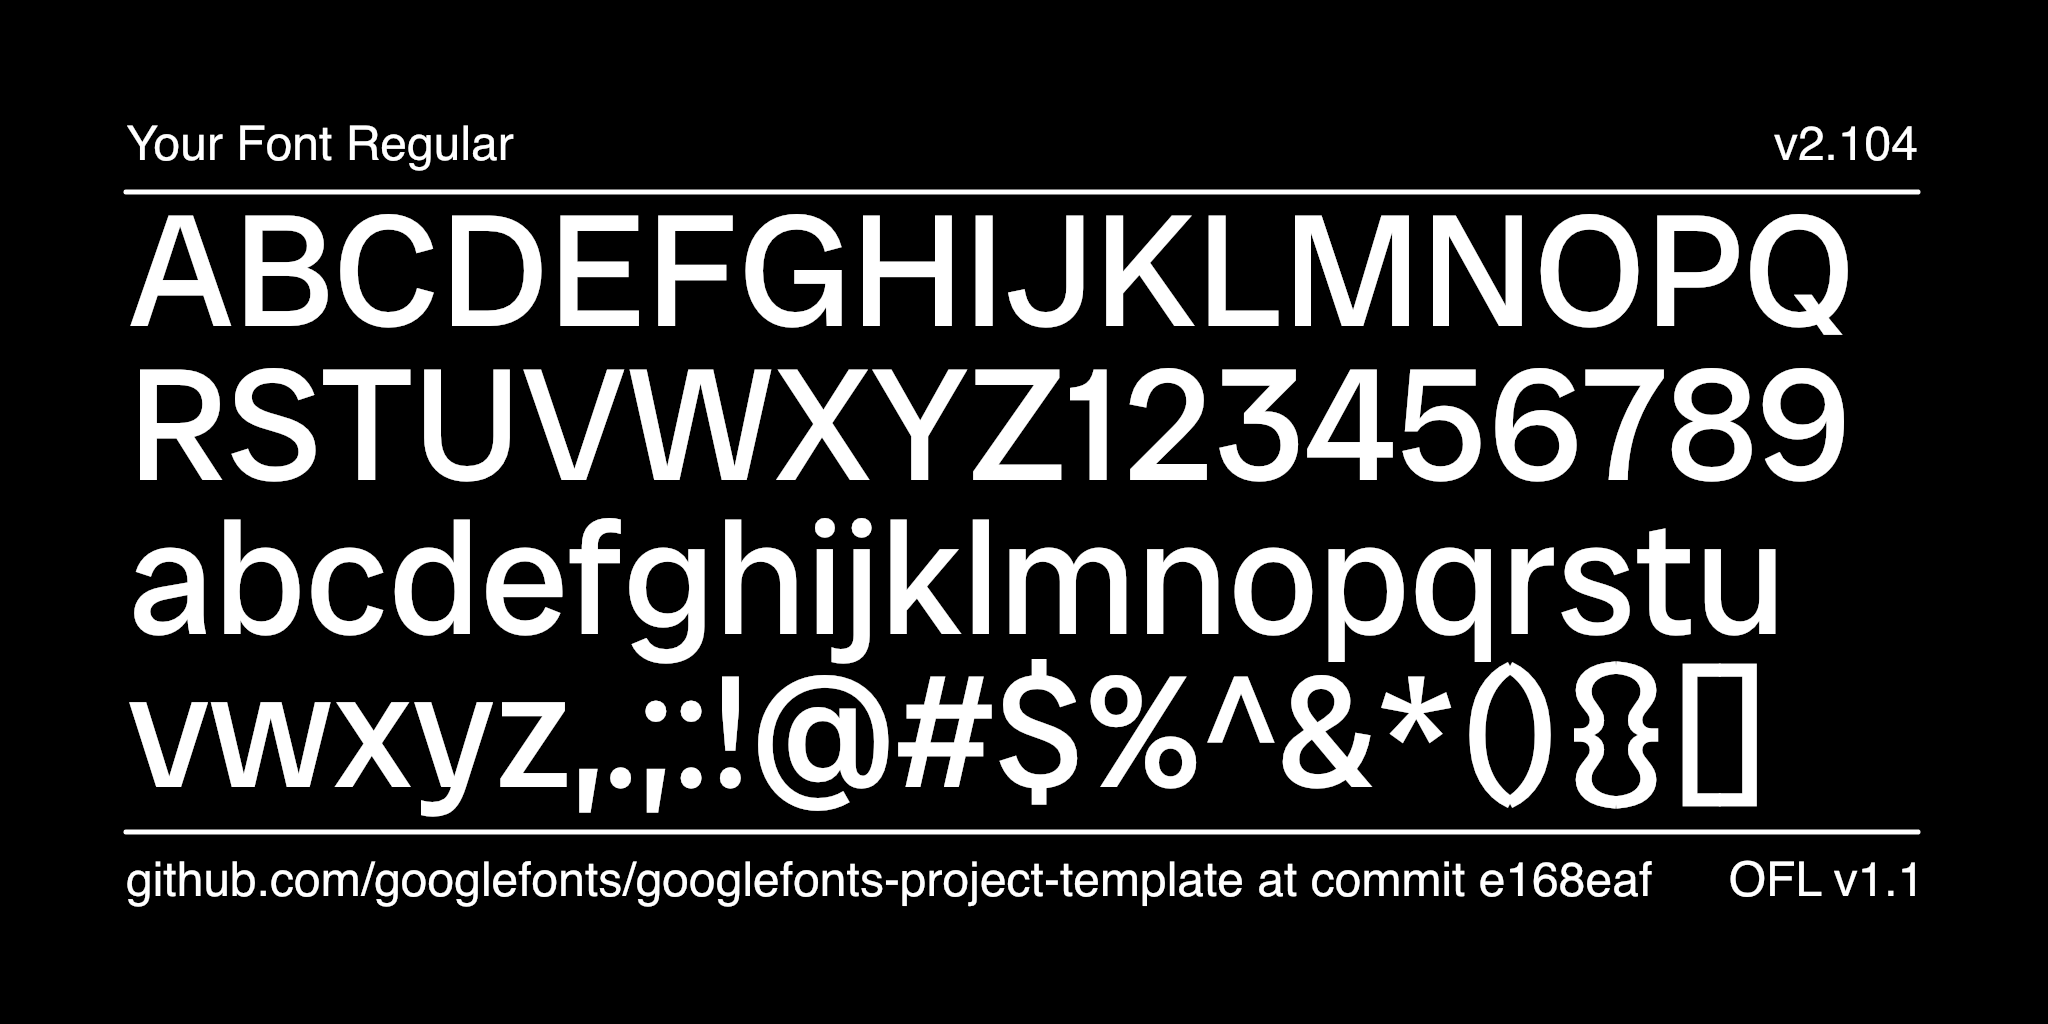
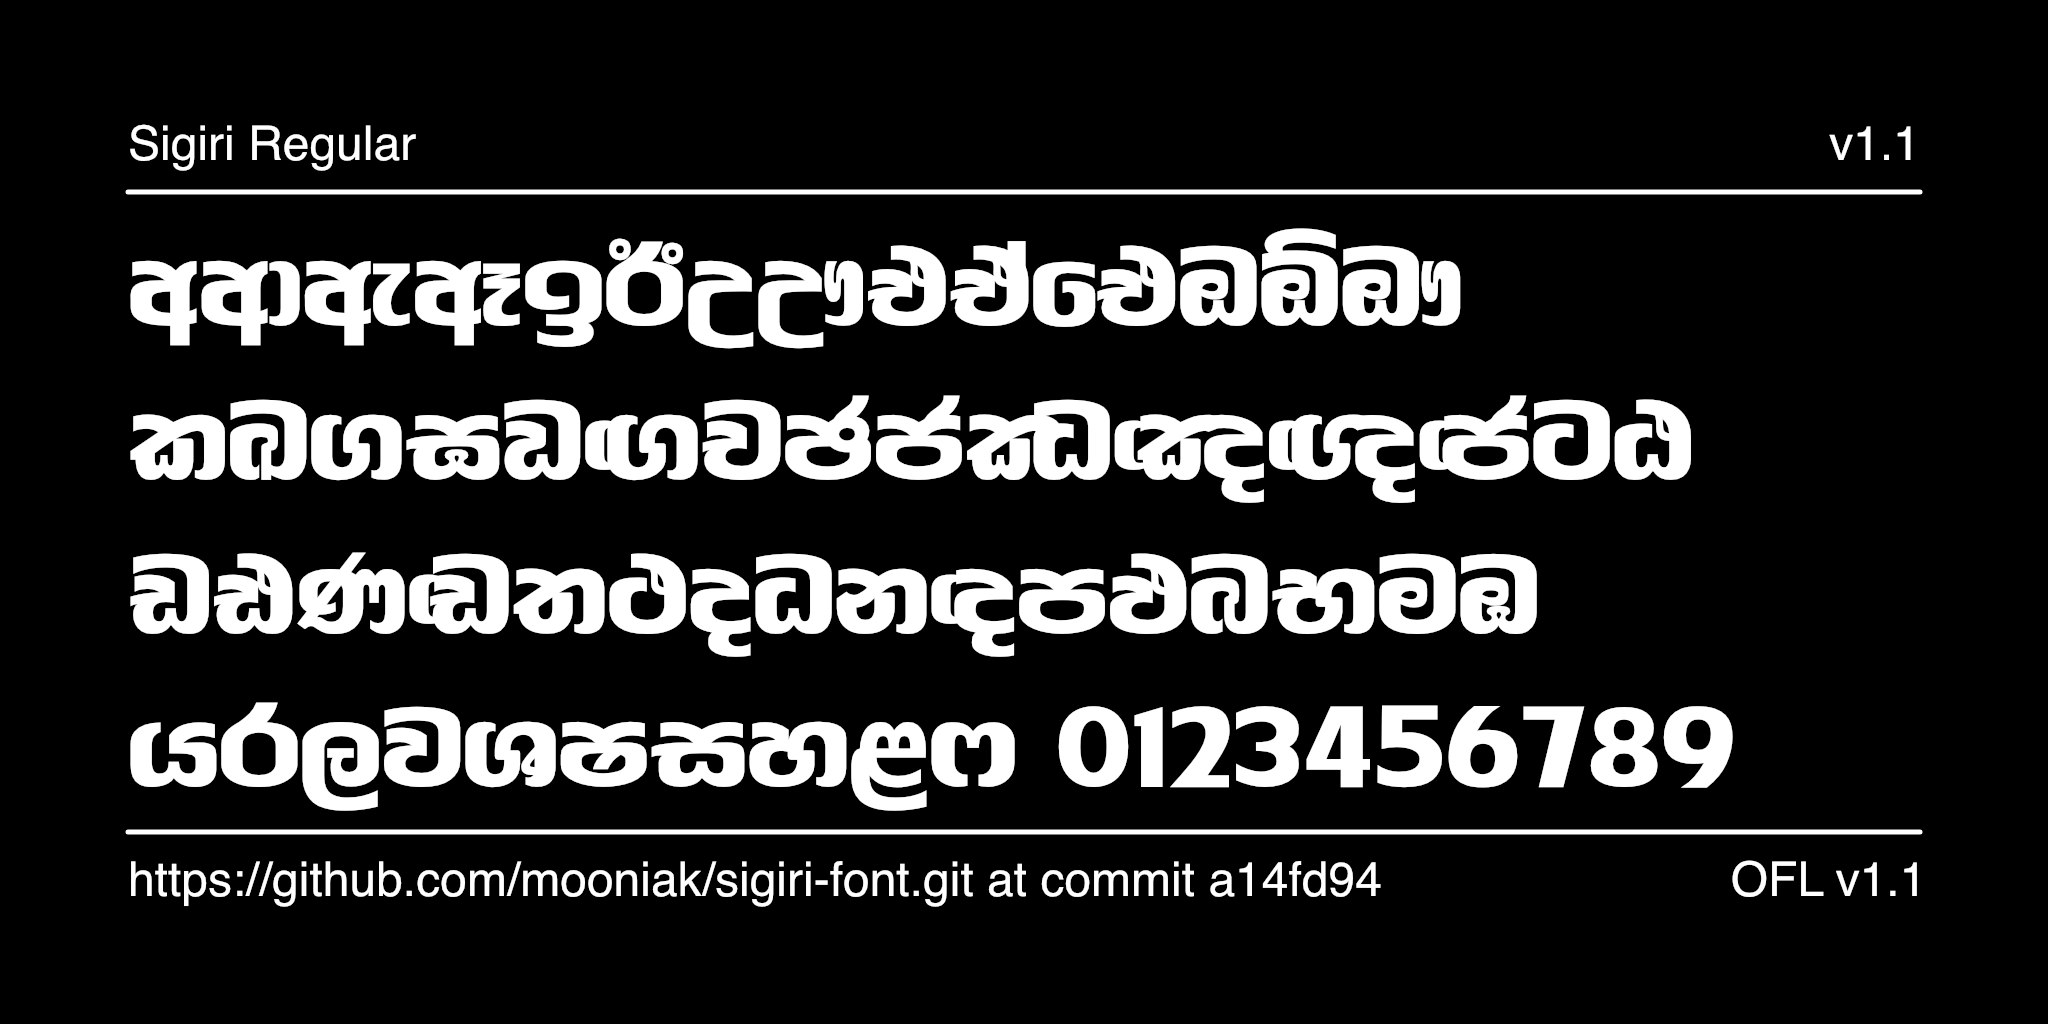
README: specimen images, description and badges

diff --git a/documentation/image2.py b/documentation/image2.py
@@ -13,19 +13,20 @@ from fontTools.misc.fixedTools import floatToFixedToStr
 import subprocess
 import sys
 import argparse
+import glob
 
 # Constants, these are the main "settings" for the image
 WIDTH, HEIGHT, MARGIN, FRAMES = 2048, 1024, 128, 1
-FONT_PATH = "fonts/variable/MyFont[wght].ttf"
+FONT_PATH = (sorted(glob.glob("fonts/ttf/*.ttf")) or sorted(glob.glob("fonts/variable/*.ttf")))[0]
 FONT_LICENSE = "OFL v1.1"
 AUXILIARY_FONT = "Helvetica"
 AUXILIARY_FONT_SIZE = 48
 
-LINE_ONE = "ABCDEFGHIJKLMNOPQ"
-LINE_TWO = "RSTUVWXYZ123456789"
-LINE_THREE = "abcdefghijklmnopqrstu"
-LINE_FOUR = "vwxyz,.;:!@#$%^&*(){}[]"
-BIG_TEXT_FONT_SIZE = 160
+LINE_ONE = "අආඇඈඉඊඋඌඑඒඓඔඕඖ"
+LINE_TWO = "කඛගඝඞඟචඡජඣඤඥඦටඨ"
+LINE_THREE = "ඩඪණඬතථදධනඳපඵබභමඹ"
+LINE_FOUR = "යරලවශෂසහළෆ 0123456789"
+BIG_TEXT_FONT_SIZE = 130
 BIG_TEXT_SIDE_MARGIN = MARGIN * 1
 BIG_TEXT_BOTTOM_MARGIN = MARGIN * 5.45
 
@@ -126,7 +127,6 @@ def draw_auxiliary_text():
     URL_AND_HASH = MY_URL + "at commit " + MY_HASH
     URL_AND_HASH = URL_AND_HASH.replace("\n", " ")
     # Draw Text
-    #text("Your Font Regular", POS_TOP_LEFT, align="left")
     text(FONT_NAME, POS_TOP_LEFT, align="left")
     text(FONT_VERSION, POS_TOP_RIGHT, align="right")
     text(URL_AND_HASH, POS_BOTTOM_LEFT, align="left")

diff --git a/documentation/image1.py b/documentation/image1.py
@@ -13,16 +13,17 @@ from fontTools.misc.fixedTools import floatToFixedToStr
 import subprocess
 import sys
 import argparse
+import glob
 
 # Constants, these are the main "settings" for the image
 WIDTH, HEIGHT, MARGIN, FRAMES = 2048, 1024, 128, 1
-FONT_PATH = "fonts/variable/MyFont[wght].ttf"
+FONT_PATH = (sorted(glob.glob("fonts/ttf/*.ttf")) or sorted(glob.glob("fonts/variable/*.ttf")))[0]
 FONT_LICENSE = "OFL v1.1"
 AUXILIARY_FONT = "Helvetica"
 AUXILIARY_FONT_SIZE = 48
 
-BIG_TEXT = "AaBb"
-BIG_TEXT_FONT_SIZE = 730
+BIG_TEXT = "සීගිරි"
+BIG_TEXT_FONT_SIZE = 600
 BIG_TEXT_SIDE_MARGIN = MARGIN * 1
 BIG_TEXT_BOTTOM_MARGIN = MARGIN * 2
 

diff --git a/README.md b/README.md
@@ -1,72 +1,27 @@
-## Setting up your font
+# Sigiri Font
 
-### New repositories
+[![Build][badge-build]][link-build]
+[![Fontspector QA][badge-qa]][link-qa]
+[![Release][badge-release]][link-release]
+[![License: OFL 1.1][badge-license]][link-license]
 
-1. Hit the green button above ("Use this template") to create your own repository.
+[badge-build]: https://github.com/mooniak/sigiri-font/actions/workflows/build.yaml/badge.svg?branch=dev
+[badge-qa]: https://img.shields.io/badge/dynamic/json?url=https%3A%2F%2Fsrc.mooniak.com%2Fsigiri-font%2Fbuild.json&query=%24.qa.pass_rate&suffix=%25&label=fontspector%20QA%20(dev%20build)&color=informational
+[badge-release]: https://img.shields.io/github/v/release/mooniak/sigiri-font?label=release
+[badge-license]: https://img.shields.io/badge/license-OFL--1.1-green
+[link-build]: https://github.com/mooniak/sigiri-font/actions/workflows/build.yaml
+[link-qa]: https://src.mooniak.com/sigiri-font/reports/fontspector/fontspector-report.html
+[link-release]: https://github.com/mooniak/sigiri-font/releases
+[link-license]: OFL.txt
 
-2. Clone the repository, and replace the font sources in the `sources` directory with your own font sources. These sources may be either in Glyphs format or UFO/Designspace formats.\
-   \
-   Unlike many open source distributors, Google Fonts is **curated**. Fonts shipped to the platform have to match the [Google Fonts Specifications](https://github.com/googlefonts/gf-docs/tree/main/Spec). Please read them carefully.\
-   \
-   _(The template ships a tiny generic placeholder — "My Font", a 2-master Weight variable font with a handful of blank-slate glyphs (`.notdef`, space, H, I, l, O) as `sources/MyFont.designspace` + UFOs. It exists only so the build pipeline works out of the box; replace it with your own sources.)_
+Sigiri is a Sinhala typeface designed by Lalith Rathnayake, in a single Regular weight. It is maintained by [Mooniak](https://mooniak.com/) and distributed as a free font under the SIL Open Font License.
 
-3. Then reference the sources in the file `sources/config.yaml`, as well as making any other changes you would like to make based on the instructions in the [Google Fonts Builder documentation](https://github.com/googlefonts/gftools/blob/main/Lib/gftools/builder/__init__.py).
-
-4. Add yourself to the `AUTHORS.txt` and `CONTRIBUTORS.txt` files.
-
-5. Fill out `documentation/ARTICLE.en_us.html` with a description of your font.
-
-6. Rewrite this Readme file according to the recommendations in the [Google Fonts Guide](https://googlefonts.github.io/gf-guide/readmefile.html).
-
-7. Add and commit these files to git.
-
-8. **At the command line, run `make customize` to ensure that all the paths and URLs in your project are correct**. This will also push your changes to GitHub.
-
-9. **Set up your GitHub pages site**: go to your repository's Settings > Pages and ensure that the Build and deployment "Source" drop-down is set to "GitHub Actions". (Any preexisting Actions jobs can be re-run to publish now, or the deployment triggered also manually from the Actions tab. Subsequent commits will publish the proofs and QA results automatically.)
-
-10. If GitHub Actions has successfully built the family, you will find the font binaries in the Actions tab. The official GitHub Actions documentation provides further [information](https://docs.github.com/en/actions/managing-workflow-runs/downloading-workflow-artifacts).
-
-### Updating a repository
-
-1. To update your font repository to bring in the latest best-practices from the Google Fonts Project Template, run `make update-project-template` from the command line. This requires the `node` Javascript engine to be installed; if you don't have that already, [follow these instructions](https://nodejs.org/en/download/package-manager#macos) to install on your platform.
-
-2. To update the Python build chain which builds your fonts, run `make update` and `git add`/`git commit` the new `requirements.txt`.
-
-## More things to do
-
-- `CustomFilter_GF_Latin_All.plist` in `sources` is practical if you use GlyphsApp, you can remove it otherwise. Placed in the same directory as the your `.glyphs` file, it will allow Glyphs to display a filter list for all GF Latin glyphsets in app. To make sure your font supports the minimal set required by Google Fonts, look at the `GF_Latin_Core` filter list. Find other glyphsets and list formats for different software in [GF Glyphsets repository](https://github.com/googlefonts/glyphsets/tree/main/GF_glyphsets).
-
-- Once you are happy with your font, add promotional assets in the documentation directory. Make it different from the pic you use in this README. You can get inspired by existing @googlefonts posts as: https://x.com/googlefonts/status/1415562928657416192.
-
-- Google Fonts uses GitHub Releases to manage font families. If you feel your font project has hit a milestone, you must create a new release for it. In order to do this, go to the releases page and hit the "Draft a new release" button. You must provide a tag number and title which can only be a decimal number e.g. `0.100`, `1.000` etc. For the body text, mention what has changed since the last release. Once you are done, hit the "Publish release" button. Here is an example which fulfills the requirements, https://github.com/m4rc1e/test-ufr-family/releases/tag/2.019. For more info regarding GitHub release, please see the official GitHub Release [documentation](https://docs.github.com/en/repositories/releasing-projects-on-github/managing-releases-in-a-repository). **Please note that GitHub Actions must be able to build the fonts before you can make a release. Once you have made a release, the fonts and tests assets will be attached to the release automatically. This may take a while since the fonts and tests will be built from scratch so please be patient.**
-
----
-
-# My Font
-
-[![][Fontspector]](https://mooniak.github.io/mooniak-font-project-template.git/fontspector/fontspector-report.html)
-[![][OpenType]](https://mooniak.github.io/mooniak-font-project-template.git/fontspector/fontspector-report.html)
-[![][Universal]](https://mooniak.github.io/mooniak-font-project-template.git/fontspector/fontspector-report.html)
-[![][Google Fonts]](https://mooniak.github.io/mooniak-font-project-template.git/fontspector/fontspector-report.html)
-[![][Glyphset]](https://mooniak.github.io/mooniak-font-project-template.git/fontspector/fontspector-report.html)
-
-[Fontspector]: https://img.shields.io/endpoint?url=https%3A%2F%2Fmooniak.github.io%2Fmooniak-font-project-template.git%2Fbadges%2FFontspectorQA.json
-[OpenType]: https://img.shields.io/endpoint?url=https%3A%2F%2Fmooniak.github.io%2Fmooniak-font-project-template.git%2Fbadges%2FOpentypeSpecificationChecks.json
-[Universal]: https://img.shields.io/endpoint?url=https%3A%2F%2Fmooniak.github.io%2Fmooniak-font-project-template.git%2Fbadges%2FUniversalProfileChecks.json
-[Google Fonts]: https://img.shields.io/endpoint?url=https%3A%2F%2Fmooniak.github.io%2Fmooniak-font-project-template.git%2Fbadges%2FFontFileChecks.json
-[Outline Correctness]: https://img.shields.io/endpoint?url=https%3A%2F%2Fmooniak.github.io%2Fmooniak-font-project-template.git%2Fbadges%2FOutlineCorrectnessChecks.json
-[Glyphset]: https://img.shields.io/endpoint?url=https%3A%2F%2Fmooniak.github.io%2Fmooniak-font-project-template.git%2Fbadges%2FGlyphsetChecks.json
-
-Description of your font goes here. We recommend to start with a very short presentation line (the kind you would use on twitter to present your project for example), and then add as much details as necesary :-) Origin of the project, idea of usage, concept of creation… but also number of masters, axes, character sets, etc.
-
-Don't hesitate to create images!
-
-![Sample Image](documentation/image1.png)
-![Sample Image](documentation/image2.png)
+![Sigiri specimen](documentation/image1.png)
+![Sigiri character set](documentation/image2.png)
 
 ## About
 
-Description of you and/or organisation goes here.
+Sigiri is maintained by [Mooniak](https://mooniak.com/), a design collective in Colombo, Sri Lanka.
 
 ## Building
 
@@ -78,18 +33,9 @@ If you want to build fonts manually on your own computer:
 - `make test` will run [Fontspector](https://fonttools.github.io/fontspector/)'s quality assurance tests.
 - `make proof` will generate HTML proof files.
 
-The proof files and QA tests are also available automatically via GitHub Actions — look at https://mooniak.github.io/mooniak-font-project-template.git.
+The proof files and QA reports are also produced by GitHub Actions: open the latest run in the "Actions" tab.
 
 ## Changelog
-
-When you update your font (new version or new release), please report all notable changes here, with a date.
-[Font Versioning](https://github.com/googlefonts/gf-docs/tree/main/Spec#font-versioning) is based on semver.
-Changelog example:
-
-**26 May 2021. Version 2.13**
-
-- MAJOR Font turned to a variable font.
-- SIGNIFICANT New Stylistic sets added.
 
 ## License
 
